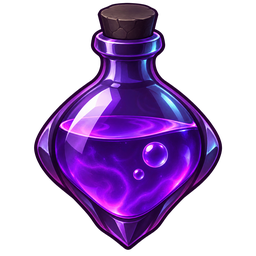
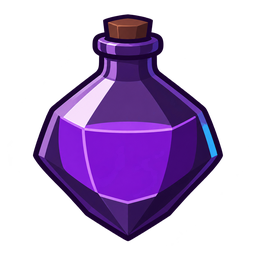
Упростить знак фиолетового зелья

diff --git a/md/frontend.md b/md/frontend.md
@@ -250,9 +250,10 @@ rail он одной компактной строкой показывает т
 
 Бренд **DnD Share** в desktop rail, мобильной шапке и favicon использует
 растровый знак фиолетового зелья из `frontend/public/brand-mark.webp`.
-У знака один сильный симметричный силуэт: приземистый гранёный флакон, тёмная
-пробка, глубокий сливовый контур и светящееся фиолетовое содержимое. Мелкий
-декор, текст, руны, рамка и фоновая сцена не используются. `favicon-32.png`,
+У знака один сильный симметричный силуэт: приземистый флакон с крупными гранями,
+мягко напоминающими d20, короткая тёмная пробка, глубокий сливовый контур и
+сдержанное фиолетовое содержимое. Мелкий декор, пузырьки, текст, руны, рамка и
+фоновая сцена не используются. `favicon-32.png`,
 `favicon.ico` и `apple-touch-icon.png` являются уменьшенными производными
 мастер-знака и не редактируются как самостоятельные варианты.
 
